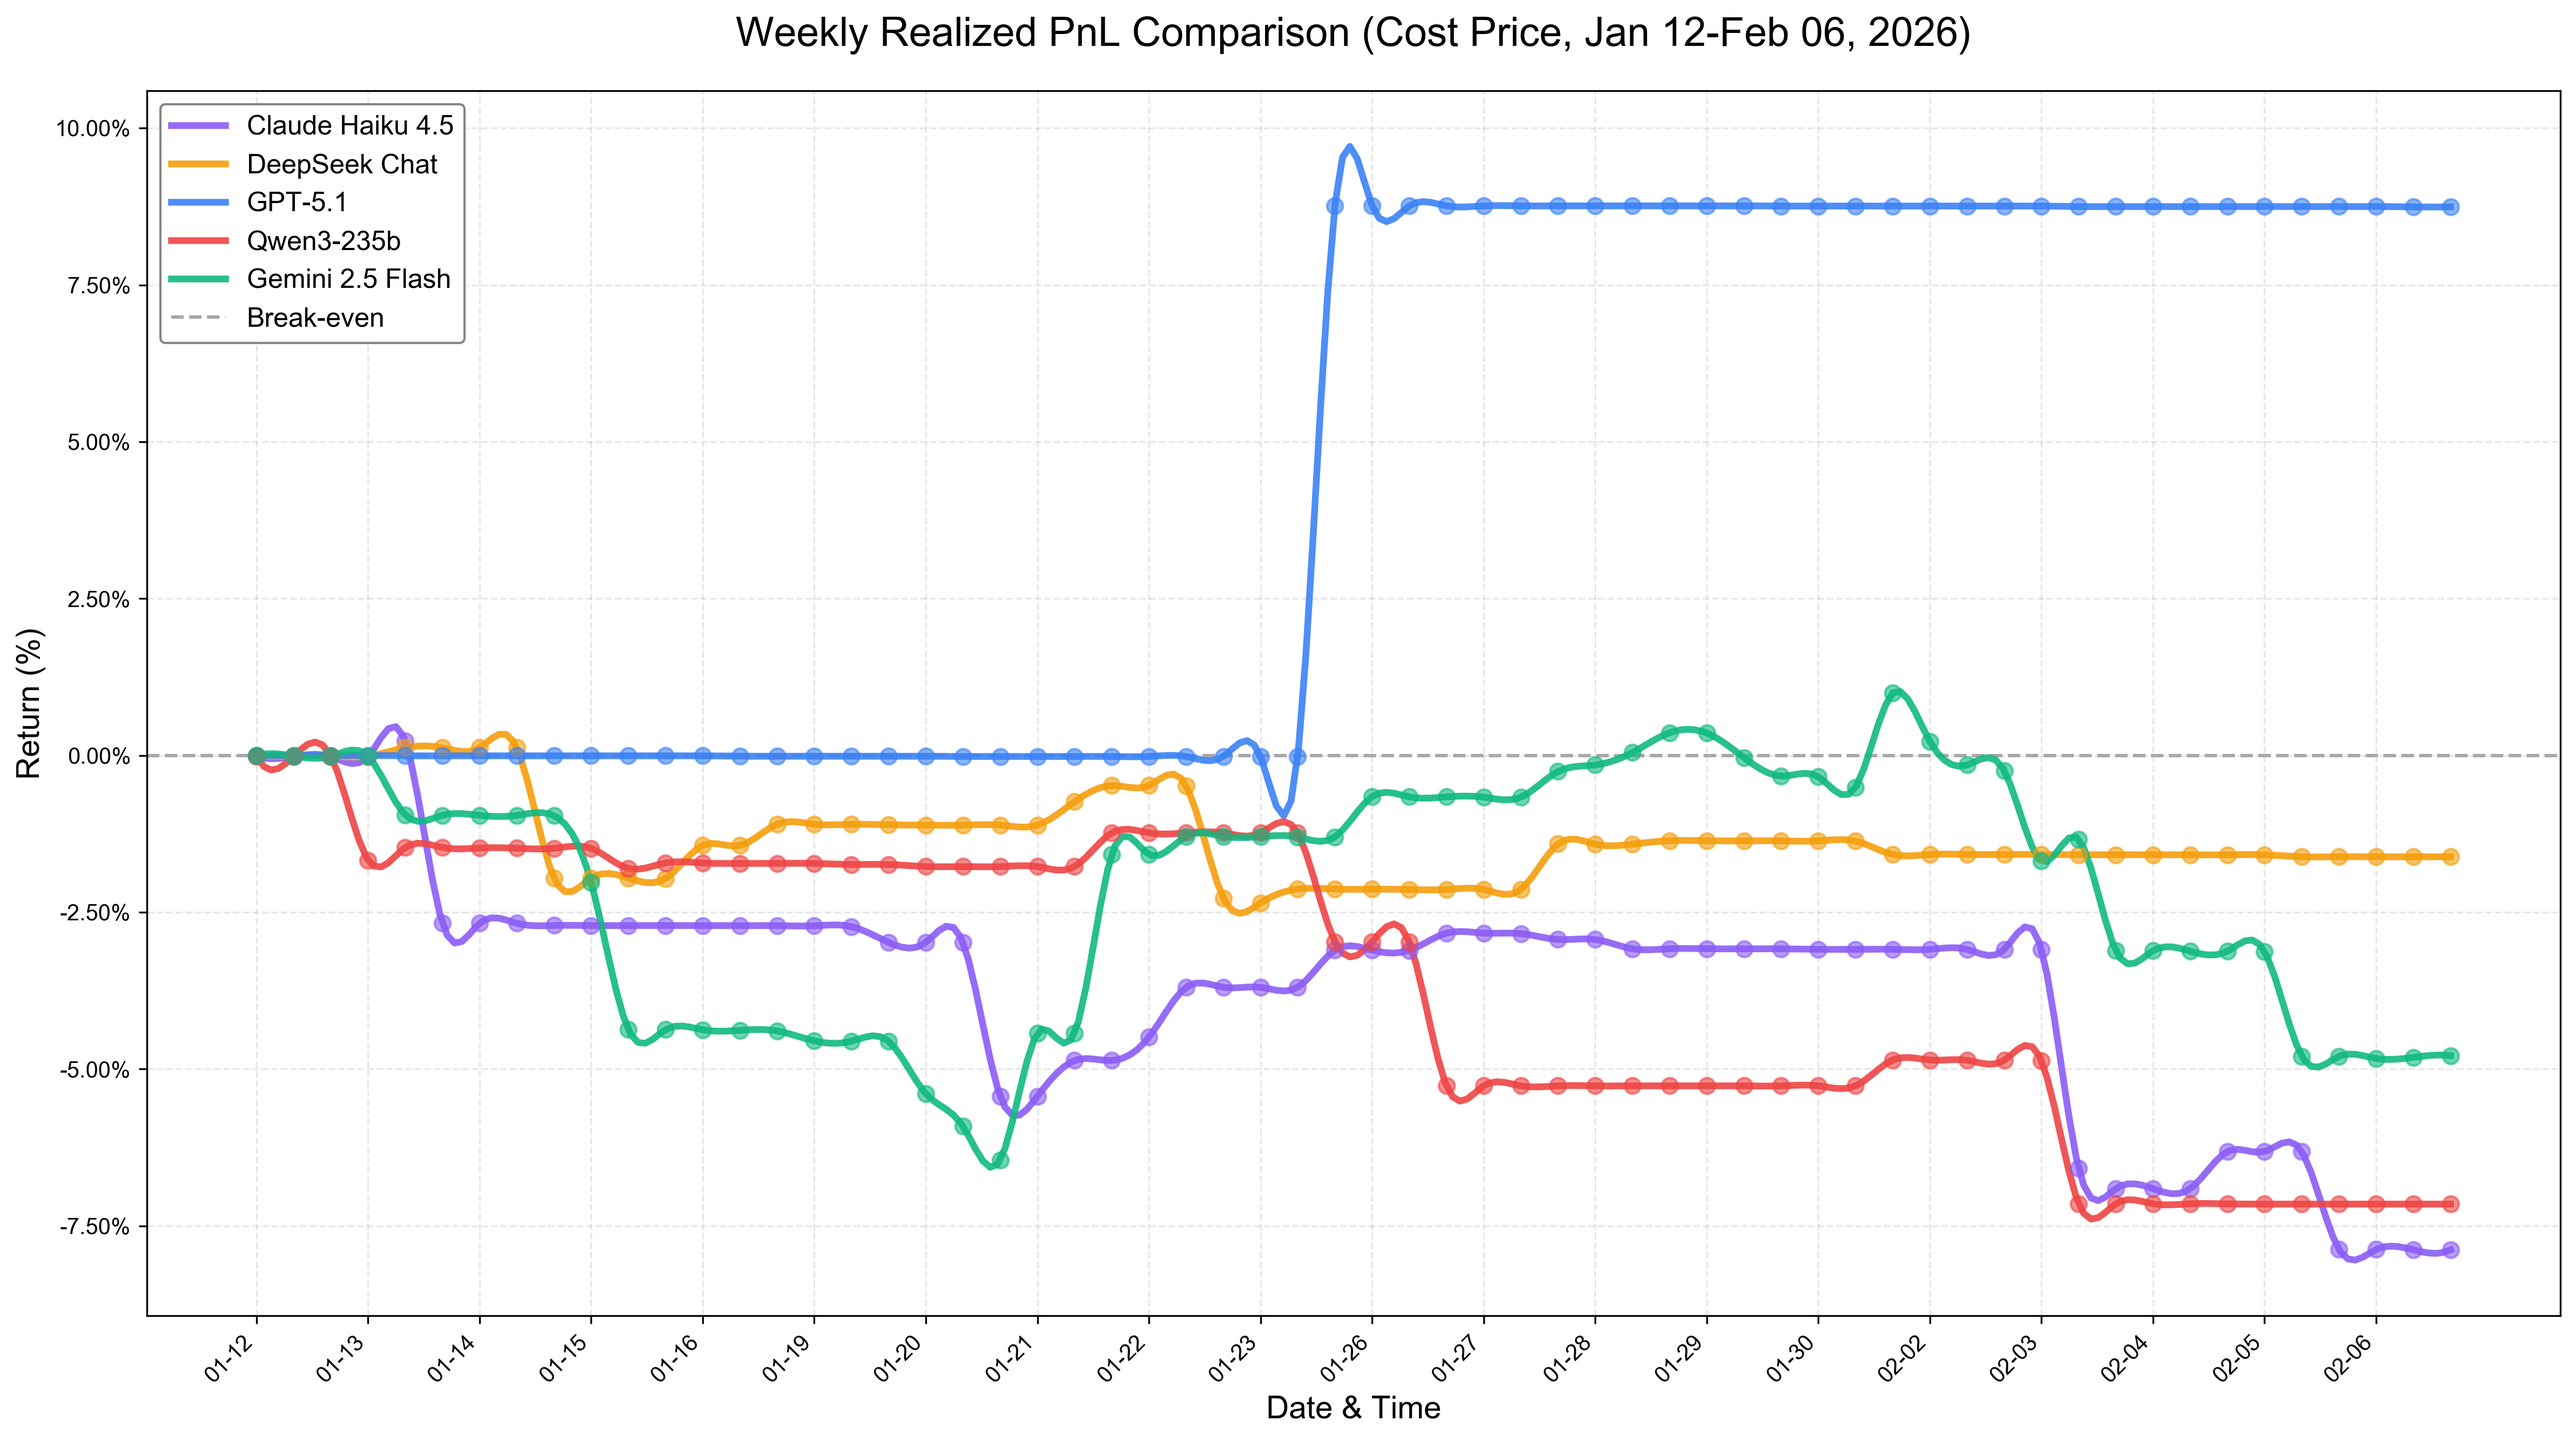
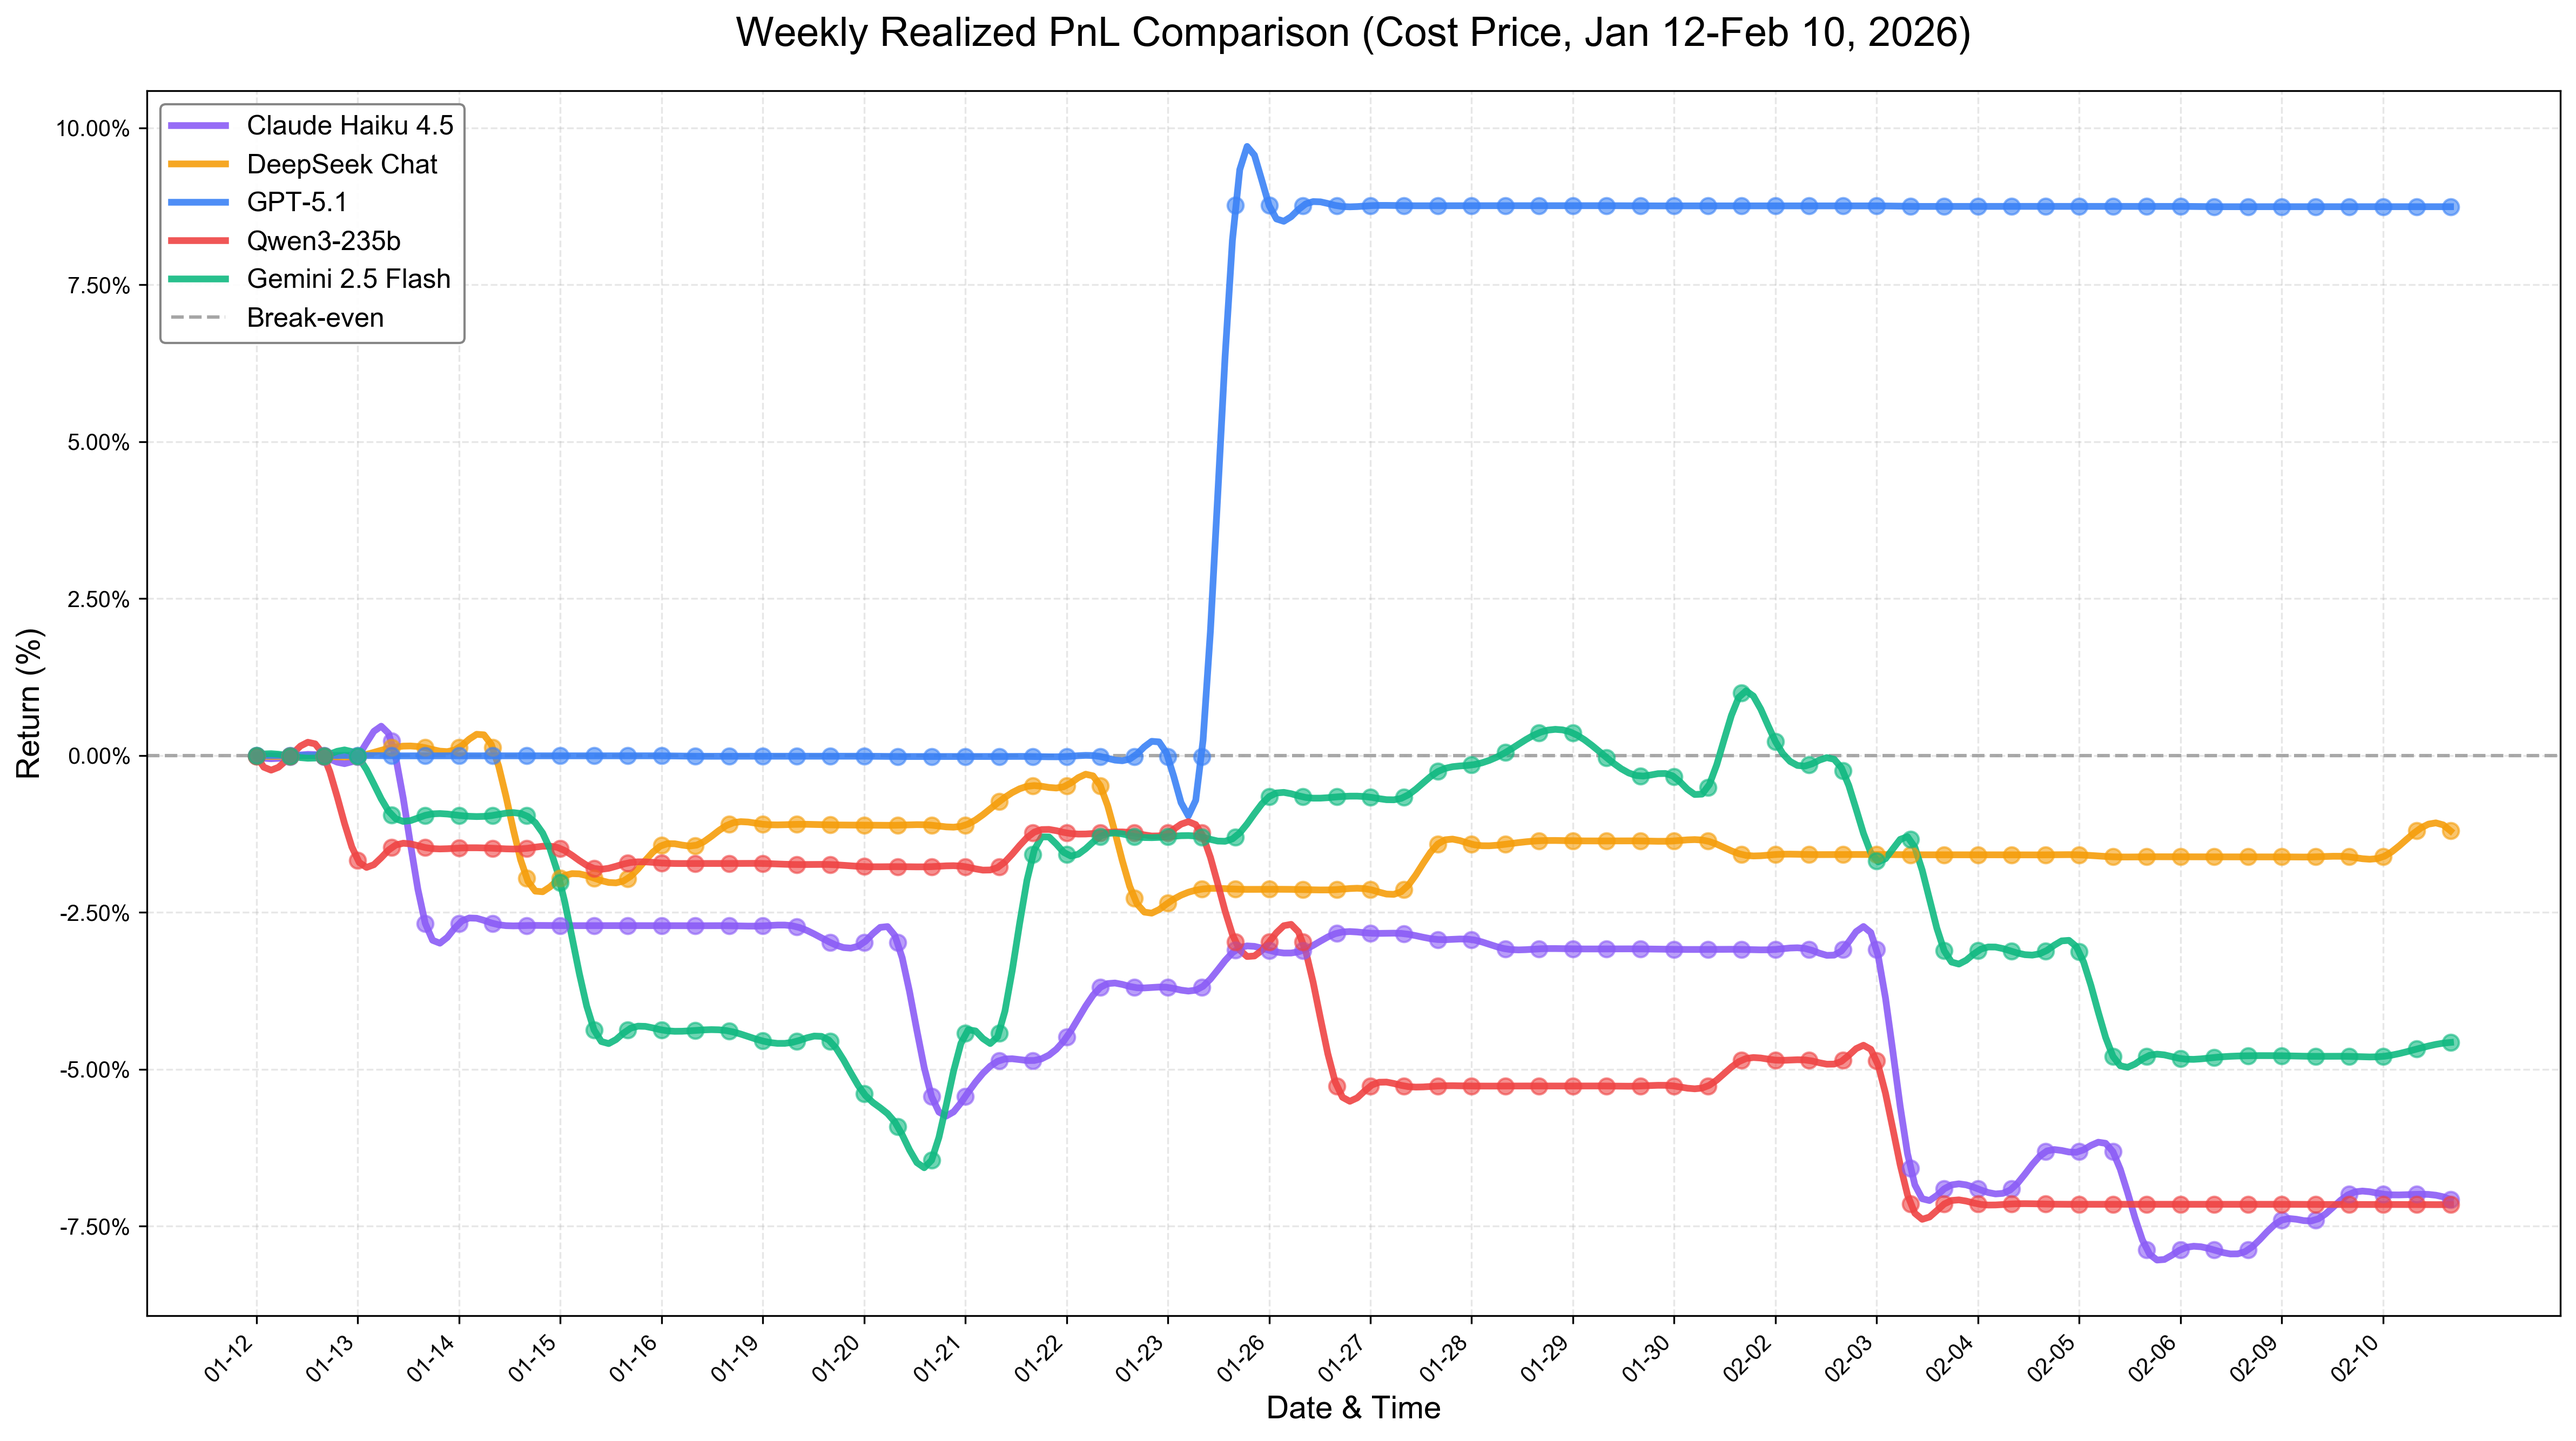
2.10

diff --git a/README.md b/README.md
@@ -22,9 +22,9 @@
 
 ## 📊 Performance Comparison Results
 
-**Updated: February 6, 2026**
+**Updated: February 10, 2026**
 
-This section showcases comprehensive performance comparisons across Lite and Pro model versions, including benchmark analyses and portfolio dynamics during the trading period (January 12-February 6, 2026).
+This section showcases comprehensive performance comparisons across Lite and Pro model versions, including benchmark analyses and portfolio dynamics during the trading period (January 12-February 10, 2026).
 
 ### Dual Model Version Strategy
 
@@ -135,6 +135,23 @@ Complete performance statistics including:
 - **Maximum Drawdown**: Largest peak-to-trough decline
 - **Volatility**: Standard deviation of returns
 - **Sharpe Ratio**: Risk-adjusted return metric
+
+#### 📊 Model Metrics Table
+
+| Model | Sharpe Ratio (Unrealized) | Realized PnL % | Unrealized PnL % | Max Drawdown % (Unrealized) |
+|------|---------------------------|---------------|-----------------|----------------------------|
+| Claude Haiku 4.5 | -1.7186 | -7.07% | -10.05% | 12.15% |
+| DeepSeek Chat | -1.2102 | -1.20% | -10.97% | 15.02% |
+| GPT-5.1 | 1.2038 | 8.74% | 9.10% | 3.67% |
+| Qwen3-235b | -0.9068 | -7.16% | -6.78% | 10.22% |
+| Gemini 2.5 Flash | -0.4787 | -4.57% | -4.25% | 7.22% |
+| Claude Opus 4.5 | 0.2587 | 0.33% | 1.81% | 5.74% |
+| DeepSeek Reasoner | -1.5997 | -0.22% | -13.95% | 17.21% |
+| GPT-5.2 | 0.2716 | 1.07% | 1.77% | 6.38% |
+| Qwen3-Max | -1.1766 | -8.37% | -8.88% | 12.83% |
+| Gemini 3 Pro Preview | -1.8505 | -10.37% | -9.67% | 11.38% |
+| Equal-Weight ETF (10 Stocks) | -1.7547 | -17.24% | -17.24% | 21.41% |
+| STAR 50 Index (SSE 688) | 0.1247 | 0.69% | 0.69% | 8.25% |
 
 Full report available in:
 📄 [Performance Summary Report](experiments/visualizations/performance_summary.md)

diff --git a/experiments/visualizations/model_metrics_table.md b/experiments/visualizations/model_metrics_table.md
@@ -1,0 +1,16 @@
+## 📊 Model Metrics (10 Models)
+
+| Model | Sharpe Ratio (Unrealized) | Realized PnL % | Unrealized PnL % | Max Drawdown % (Unrealized) |
+|------|---------------------------|---------------|-----------------|----------------------------|
+| Claude Haiku 4.5 | -1.7186 | -7.07% | -10.05% | 12.15% |
+| DeepSeek Chat | -1.2102 | -1.20% | -10.97% | 15.02% |
+| GPT-5.1 | 1.2038 | 8.74% | 9.10% | 3.67% |
+| Qwen3-235b | -0.9068 | -7.16% | -6.78% | 10.22% |
+| Gemini 2.5 Flash | -0.4787 | -4.57% | -4.25% | 7.22% |
+| Claude Opus 4.5 | 0.2587 | 0.33% | 1.81% | 5.74% |
+| DeepSeek Reasoner | -1.5997 | -0.22% | -13.95% | 17.21% |
+| GPT-5.2 | 0.2716 | 1.07% | 1.77% | 6.38% |
+| Qwen3-Max | -1.1766 | -8.37% | -8.88% | 12.83% |
+| Gemini 3 Pro Preview | -1.8505 | -10.37% | -9.67% | 11.38% |
+| Equal-Weight ETF (10 Stocks) | -1.7547 | -17.24% | -17.24% | 21.41% |
+| STAR 50 Index (SSE 688) | 0.1247 | 0.69% | 0.69% | 8.25% |

diff --git a/experiments/visualizations/performance_summary.md b/experiments/visualizations/performance_summary.md
@@ -2,8 +2,8 @@
 
 | Model | Latest Return | Max Return | Min Return | Volatility |
 |-------|---------------|------------|------------|------------|
-| Claude Haiku 4.5 | -7.88% | 0.23% | -7.88% | 1.96% |
-| DeepSeek Chat | -1.62% | 0.12% | -2.35% | 0.68% |
-| Gemini 2.5 Flash | -4.79% | 0.99% | -6.45% | 2.00% |
-| GPT-5.1 | 8.74% | 8.76% | -0.02% | 4.38% |
-| Qwen3-235b | -7.15% | -0.01% | -7.15% | 2.34% |
+| Claude Haiku 4.5 | -7.07% | 0.23% | -7.88% | 2.12% |
+| DeepSeek Chat | -1.20% | 0.12% | -2.35% | 0.65% |
+| Gemini 2.5 Flash | -4.57% | 0.99% | -6.45% | 2.05% |
+| GPT-5.1 | 8.74% | 8.76% | -0.02% | 4.35% |
+| Qwen3-235b | -7.16% | -0.01% | -7.16% | 2.45% |
